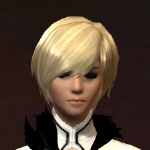
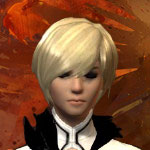
új, színesebb kari képek

diff --git a/css/arehy.css b/css/arehy.css
@@ -1,0 +1,24 @@
+input[type=checkbox] + label.checkbox#labzya {
+  border: 3px solid #6d3b45;
+}
+input[type=checkbox] + label.checkbox#labzoe {
+  border: 3px solid #562122;
+}
+input[type=checkbox] + label.checkbox#labjeizy {
+  border: 3px solid #a11113;
+}
+input[type=checkbox] + label.checkbox#lablara {
+  border: 3px solid #466c13;
+}
+input[type=checkbox] + label.checkbox#lablana {
+  border: 3px solid #642769;
+}
+input[type=checkbox] + label.checkbox#lablea {
+  border: 3px solid #b29632;
+}
+input[type=checkbox] + label.checkbox#lablily {
+  border: 3px solid #884b25;
+}
+input[type=checkbox] + label.checkbox#labjessy {
+  border: 3px solid #10879c;
+}

diff --git a/php/data.php b/php/data.php
@@ -26,4 +26,15 @@ $characters = array(
   "lea" => "Lea Kroe <br> (Warrior)",
   "lana" => "Lana Kroe <br> (Mesmer)"
 );
+$characters2 = array(
+  "lisa" => "Miss Mimy <br> (Guardian)",
+  "zya" => "Trixy Mist <br> (Thief)",
+  "lara" => "Misty Trixx <br> (Engi)",
+  "jessy" => "Kyra Cale <br> (Mesmer)",
+  "jeizy" => "Lora Bloom <br> (Warrior)",
+  "lily" => "Bitsie Bloom <br> (Elementalis)",
+  "zoe" => "Maidy Moon <br> (Necro)",
+  "lea" => "Blumy Brave <br> (Ranger)",
+  "lana" => "Reina Redmoon <br> (Revenant)"
+);
  ?>

diff --git a/index.php b/index.php
@@ -7,6 +7,7 @@
     <link rel="shortcut icon" href="favicon.png">
     <link href="css\style.css" rel="stylesheet">
     <link href="php\tableStyle.php" rel="stylesheet">
+    <link href="css\arehy.css" rel="stylesheet">
     <script src="js\function.js"></script>
     <script src="//ajax.googleapis.com/ajax/libs/jquery/1.9.1/jquery.min.js"></script>
     <script type="text/javascript">
